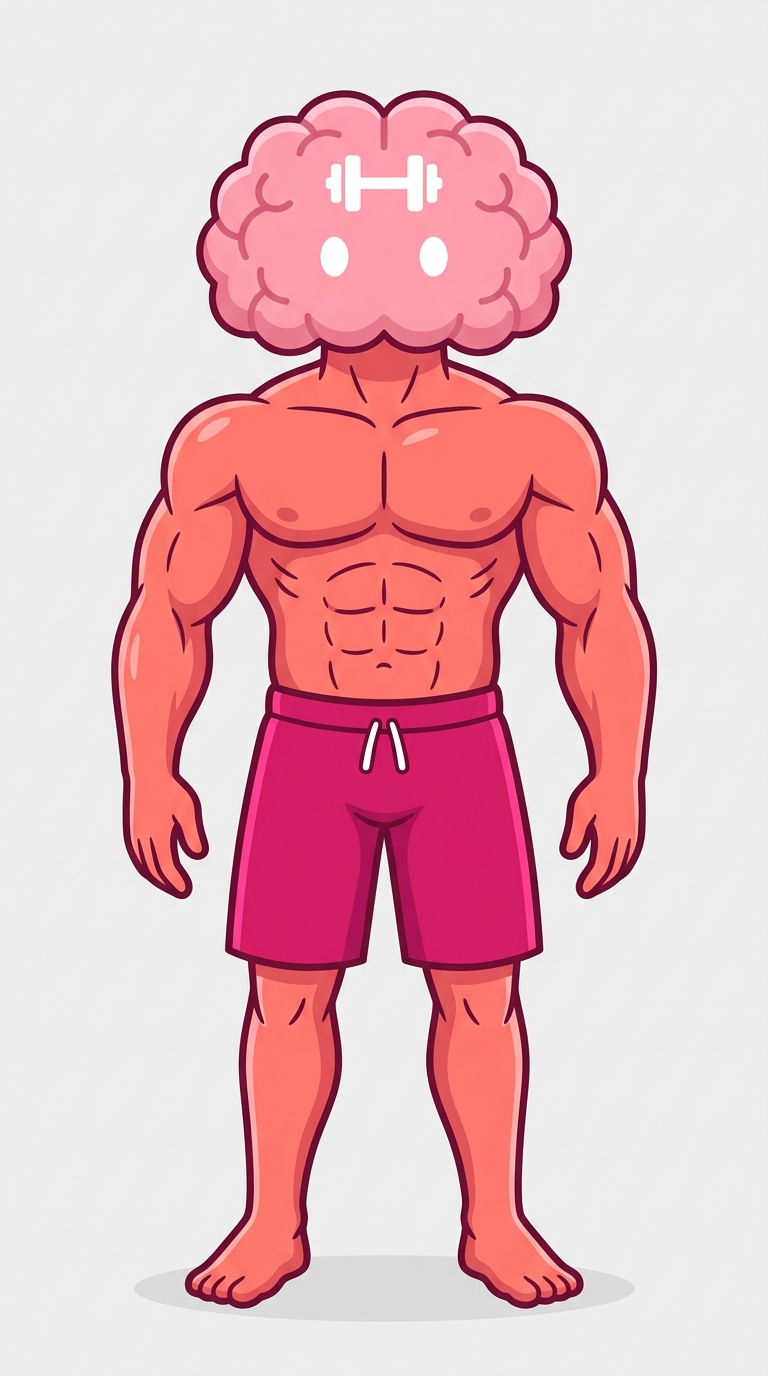
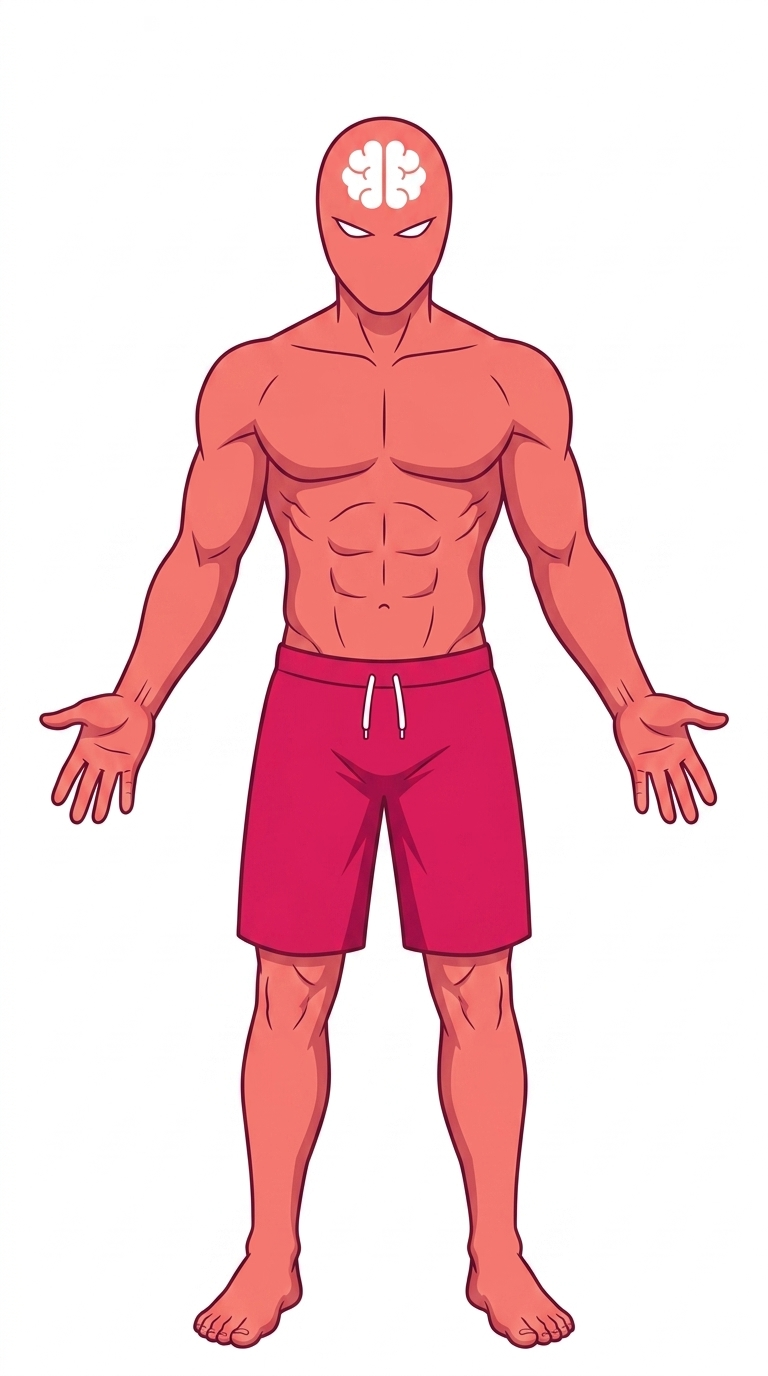
feat(manabilab-canva): refresh Manabikun to faceless captain-workout style with brain forehead mark
The previous Manabikun (pink-brain head with a tiny dumbbell stamp,
inherited from manabilab v1) read as too cute / casual once dropped
into the canva flow. Switch to a Captain-Workout-inspired silhouette:
faceless coral-pink helmet head, thin diagonal slit eyes, a solid
white front-view brain icon stamped on the forehead, six-pack body,
deep magenta knee-length workout shorts, bare feet, pure white
background. Pink stays the brand color.

Mechanics:
- assets/character/reference.png — user's structural reference
  (Captain-Workout style screenshot)
- prompts/character-base.md — new visual contract for the base shot,
  with the reference image used as a structural guide and explicit
  CAPS rules to prevent the model from dropping the shorts or cropping
  the body
- pipeline/manabilab-canva-character-base-generator.ts — Nano Banana
  call that overwrites assets/character/manabikun-base.png whenever
  the spec changes
- POST /api/manabilab-canva/character/regenerate-base — fires the
  generator from the UI
- ImagesStep gains a "⟲ ベース画像を再生成" action on the character
  reference card with confirm + cache-bust on the thumbnail

Also rewrites the character clause in prompts/image-prompt.md so
per-scene image prompts inherit the new spec verbatim — otherwise
scene images would still be asking for "pink brain head + oval
eyes + dumbbell icon" and drift away from the new base.

Changed region(s): [[0.0312, 0.0625, 0.9688, 1.0]]

diff --git a/packages/web/src/app/manabilab-canva/[jobId]/steps/ImagesStep.tsx b/packages/web/src/app/manabilab-canva/[jobId]/steps/ImagesStep.tsx
@@ -32,6 +32,14 @@ interface GenImageResult {
   error?: string;
 }
 
+interface RegenBaseResult {
+  ok: boolean;
+  outputPath?: string;
+  referenceUsed?: boolean;
+  regeneratedAt?: string;
+  error?: string;
+}
+
 interface GenerateAllResult {
   ok: boolean;
   job?: ManabilabCanvaJob;
@@ -88,6 +96,9 @@ export function ImagesStep({
   const [genImageIdx, setGenImageIdx] = useState<number | null>(null);
   const [generatingAll, setGeneratingAll] = useState(false);
   const [batchSummary, setBatchSummary] = useState<string | null>(null);
+  const [regeneratingBase, setRegeneratingBase] = useState(false);
+  const [baseVersion, setBaseVersion] = useState<number>(0);
+  const [baseError, setBaseError] = useState<string | null>(null);
   const [error, setError] = useState<{ index: number; message: string } | null>(null);
   const [globalError, setGlobalError] = useState<string | null>(null);
 
@@ -189,6 +200,34 @@ export function ImagesStep({
     }
   };
 
+  const handleRegenerateBase = async () => {
+    if (
+      !confirm(
+        "キャラ基準画像を再生成します。以降の全シーン画像はこの新しいベースから生成されます。続行しますか？",
+      )
+    ) {
+      return;
+    }
+    setRegeneratingBase(true);
+    setBaseError(null);
+    try {
+      const res = await fetch(
+        `/api/manabilab-canva/character/regenerate-base`,
+        { method: "POST" },
+      );
+      const data = (await res.json()) as RegenBaseResult;
+      if (!data.ok) {
+        setBaseError(data.error ?? "ベース画像の再生成に失敗しました");
+        return;
+      }
+      setBaseVersion(Date.now());
+    } catch (err) {
+      setBaseError(err instanceof Error ? err.message : String(err));
+    } finally {
+      setRegeneratingBase(false);
+    }
+  };
+
   const handleGenerateAll = async (force: boolean) => {
     if (!scenes || scenes.length === 0) return;
     if (
@@ -279,21 +318,56 @@ export function ImagesStep({
         style={{
           display: "flex",
           gap: 12,
-          alignItems: "center",
+          alignItems: "flex-start",
           border: "1px dashed var(--border)",
           borderRadius: 8,
           padding: 10,
         }}
       >
         <img
-          src={CHARACTER_REF_URL}
+          src={`${CHARACTER_REF_URL}${baseVersion ? `?t=${baseVersion}` : ""}`}
           alt="マナビくん基準画像"
-          style={{ width: 64, height: 64, objectFit: "contain", background: "white", borderRadius: 4 }}
+          style={{
+            width: 96,
+            height: 96,
+            objectFit: "contain",
+            background: "white",
+            borderRadius: 4,
+            border: "1px solid var(--border)",
+          }}
         />
-        <div style={{ fontSize: 12, color: "var(--muted)", flex: 1 }}>
-          <strong>参照キャラ画像</strong>: <code>assets/character/manabikun-base.png</code>
-          <br />
-          全シーンの画像生成でこの 1 枚をリファレンスとして使います。差し替えはファイルを上書きしてください。
+        <div style={{ fontSize: 12, color: "var(--muted)", flex: 1, display: "grid", gap: 6 }}>
+          <div>
+            <strong style={{ color: "inherit" }}>参照キャラ画像</strong>:{" "}
+            <code>assets/character/manabikun-base.png</code>
+            <br />
+            全シーンの画像生成でこの 1 枚を referenceImages として使います。
+            <code>reference.png</code> を構造リファレンスに、
+            <code>prompts/character-base.md</code> の規範でベースを生成し直せます。
+          </div>
+          <div style={{ display: "flex", gap: 8, alignItems: "center", flexWrap: "wrap" }}>
+            <button
+              type="button"
+              onClick={handleRegenerateBase}
+              disabled={regeneratingBase}
+              style={{
+                padding: "6px 12px",
+                background: "transparent",
+                color: "var(--accent)",
+                border: "1px solid var(--accent)",
+                borderRadius: 4,
+                fontSize: 12,
+                fontWeight: 600,
+                cursor: regeneratingBase ? "not-allowed" : "pointer",
+                opacity: regeneratingBase ? 0.6 : 1,
+              }}
+            >
+              {regeneratingBase ? "再生成中..." : "⟲ ベース画像を再生成"}
+            </button>
+            {baseError ? (
+              <span style={{ color: "#d32f2f", fontSize: 11 }}>{baseError}</span>
+            ) : null}
+          </div>
         </div>
       </section>
 

diff --git a/packages/pipeline/src/manabilab-canva-character-base-generator.ts b/packages/pipeline/src/manabilab-canva-character-base-generator.ts
@@ -1,0 +1,44 @@
+import path from "node:path";
+import fs from "node:fs/promises";
+import { promptPath, channelAssetsDir } from "@rekishi/shared/channel";
+import { generateImage } from "./image-generator.js";
+
+export interface RegenerateCharacterBaseResult {
+  outputPath: string;
+  referenceUsed: boolean;
+}
+
+/**
+ * manabilab-canva のキャラ "原典" ヒーローショットを Nano Banana で再生成する。
+ *
+ * - 入力プロンプト: prompts/character-base.md
+ * - 参照画像: assets/character/reference.png（あれば）
+ * - 出力: assets/character/manabikun-base.png（既存ファイルは上書き）
+ *
+ * 各ジョブのシーン画像生成はこの 1 枚を referenceImages として引き続けるため、
+ * このベースが変わると全ジョブの絵柄が変わる点に注意。
+ */
+export async function regenerateCharacterBase(): Promise<RegenerateCharacterBaseResult> {
+  const charDir = path.join(channelAssetsDir("character", "manabilab-canva"));
+  const promptText = await fs.readFile(promptPath("character-base", "manabilab-canva"), "utf-8");
+  const refPath = path.join(charDir, "reference.png");
+  const destPath = path.join(charDir, "manabikun-base.png");
+
+  let referenceUsed = false;
+  let referenceImages: string[] | undefined;
+  try {
+    await fs.stat(refPath);
+    referenceImages = [refPath];
+    referenceUsed = true;
+  } catch {
+    referenceImages = undefined;
+  }
+
+  await generateImage(promptText, destPath, {
+    referenceImages,
+    // プロンプト内で 9:16 を明示しているので追加指定はしない
+    appendAspectSuffix: false,
+  });
+
+  return { outputPath: destPath, referenceUsed };
+}

diff --git a/packages/web/src/app/api/manabilab-canva/character/regenerate-base/route.ts b/packages/web/src/app/api/manabilab-canva/character/regenerate-base/route.ts
@@ -1,0 +1,25 @@
+import { NextRequest, NextResponse } from "next/server";
+import { regenerateCharacterBase } from "@rekishi/pipeline";
+import { setChannel } from "@rekishi/shared/channel";
+import { CANVA_CHANNEL_SLUG } from "@/lib/canva-job";
+
+export const runtime = "nodejs";
+// Nano Banana は数十秒かかる場合あり
+export const maxDuration = 180;
+
+export async function POST(_request: NextRequest): Promise<Response> {
+  try {
+    setChannel(CANVA_CHANNEL_SLUG);
+    const result = await regenerateCharacterBase();
+    return NextResponse.json({
+      ok: true,
+      outputPath: result.outputPath,
+      referenceUsed: result.referenceUsed,
+      // キャッシュバスタ
+      regeneratedAt: new Date().toISOString(),
+    });
+  } catch (err) {
+    const msg = err instanceof Error ? err.message : String(err);
+    return NextResponse.json({ ok: false, error: msg }, { status: 500 });
+  }
+}

diff --git a/packages/pipeline/src/index.ts b/packages/pipeline/src/index.ts
@@ -7,6 +7,8 @@ export type { ManabilabCanvaScriptResult } from "./manabilab-canva-script-genera
 export { expandScriptToScenes } from "./manabilab-canva-scene-expander.js";
 export { generateImagePromptForScene } from "./manabilab-canva-image-prompt-generator.js";
 export type { ImagePromptResult } from "./manabilab-canva-image-prompt-generator.js";
+export { regenerateCharacterBase } from "./manabilab-canva-character-base-generator.js";
+export type { RegenerateCharacterBaseResult } from "./manabilab-canva-character-base-generator.js";
 export { planScenes } from "./scene-planner.js";
 export { resolveSceneAssets } from "./asset-resolver.js";
 export { synthesizeNarration } from "./tts-generator.js";

diff --git a/packages/channels/manabilab-canva/prompts/character-base.md b/packages/channels/manabilab-canva/prompts/character-base.md
@@ -1,0 +1,103 @@
+# manabilab-canva キャラ基準ショット生成プロンプト
+
+参照画像（`reference.png`）の **キャラ構造とポーズ感** を踏襲しつつ、
+ピンクの色味を全面に乗せた **新マナビくん** の **基準ヒーローショット (front facing, neutral standing)** を生成してください。
+
+このプロンプトの出力先は `manabikun-base.png` で、以降のすべてのシーン画像生成で参照画像として使われる、**ブランド規範の "原典"** になります。
+構造・色・スタイルが一発で固まるよう、下記の仕様を **完全に満たした 1 枚** を作ってください。
+
+---
+
+## キャラ仕様（必ず守る）
+
+### 頭部 — 最重要
+- **EGG-SHAPED FACELESS HELMET HEAD**: 卵型のなめらかな頭。スカルなし、髪なし、耳なし、首から滑らかにつながる
+- **頭の色**: 体と同じ **コーラル / サーモンピンク (#F08080 〜 #FF7B9C 系)**。決してグレーや白にしない
+- **額の中央に "脳マーク" (BRAIN icon)**: 白い**シルエット型の脳アイコン** をスタンプロゴのように。下記仕様を厳守する
+  - **正面ビュー、左右対称**（左右半球がはっきり分かれている）
+  - 上部は **3〜4 個の丸みを帯びた波打ち（雲のような形）** で大脳を表現
+  - 中央に **縦方向の細い溝（左右半球の境界）** が入る
+  - 全体は **白の塗りつぶしシルエット**（中身を透かさない、線画ではなく塗り）
+  - サイズは目とのバランスで額の上半分に収まる程度（額の幅の 30〜40%）
+  - 形は **シンプルでアイコン的**（解剖学的なディテールやリアルな gyri は不要）
+  - 文字（W、B、ロゴ文字、数字など）は **絶対に入れない**
+- **目**: 2 本の **細い斜めの白いスリット**。鋭くクール。下向き 5°〜10° 程度の角度で「決め顔」感を出す
+- **口・鼻・眉・耳・歯・舌・髪・脳の凹凸 — 一切なし**
+
+### 体
+- **マッチョ・ヒーロー体型**: 引き締まった胸筋・腹筋（シックスパック）・広い肩・はっきりした上腕
+- **誇張しすぎない**: ボディビル的なグロテスクさやチビキャラ的な可愛さは避ける
+- **肌の色**: 顔と同じ **コーラル / サーモンピンク (#F08080 〜 #FF7B9C 系)**、頭部と完全同色
+- **シェーディング**: 1 トーン濃いめのピンクで、筋肉のラインや陰影をフラットに表現（リアル過ぎない、グロテスクでない）
+- **上半身は裸**（タンクトップなどは着ない）
+
+### 服装（必須・省略禁止）
+- **MUST WEAR knee-length workout shorts** in DEEP MAGENTA / HOT PINK (#D63384 〜 #E91E63 系)
+  — ショーツは絶対に省略しない。下半身は裸ではなくこのショーツを必ず履かせる
+- ウエストに小さな白いドローストリング（紐）
+- **裸足**（靴・靴下・ベルトなどは履かない）
+
+### 線画スタイル
+- **2D ベクターイラスト**、フラットカラー + 1 トーン濃いピンクのセルシェード
+- 線は **太く均一（約 3px 相当）**、線色は **ダークウォームピンク / バーガンディ系**（純黒は禁止）
+- 漫画 / アニメっぽいパーキッとしたシルエット
+
+### 背景・構図
+- **PURE WHITE solid background (#FFFFFF)**。影なし、床線なし、小物なし、テキストなし、他のキャラなし
+- **FULL BODY composition** — 頭のてっぺんから **裸足のつま先まで全身を必ず収める**。下半身を切ったり太ももで止めたりしない
+- **9:16 縦構図**、被写体は画面中央、頭頂から足先までが綺麗に画面内に収まる引き
+- キャラの上下に少し余白を残す（後で Canva で文字を被せる前提）
+
+### ポーズ — このベース画像専用
+- **正面向き、ニュートラルスタンディング**（後続の全シーンの "原典" になる）
+- 両腕は体の横にやや開き気味で下げる（添付参照画像のように手のひらを軽く前に開いて見せても良い）
+- 胸を張って堂々と立つ。猫背禁止
+- 目線はカメラ目線（スリット目はカメラ向き）
+- このショットがブランドの「キャラ規範ショット」になる
+
+### 雰囲気
+- クールで自信に満ち、わずかにヒロイック（Captain Workout 系統）
+- 「脳と体を鍛えるアスリート」感
+
+---
+
+## 絶対避ける
+
+- **ショーツを省略する（裸 / 下着のみ / 全裸）** — マゼンタの膝丈ショーツは必須
+- 頭から足先までの **全身ショットを切る**（半身、腰から上、太ももカットなど禁止）
+- リアルな解剖（実際の頭蓋骨、血、血管、グロ、不気味）
+- 顔のパーツ（口、鼻、眉、ほうれい線、しわ）
+- 髪・脳の凹凸
+- 額に **アルファベット文字や数字（"W", "B" など）** — 必ず脳シルエットアイコンのみ
+- テキスト、字幕、説明文、ロゴ文字
+- 背景の小物、床線、影、他キャラ
+- 写真風、3D レンダリング、CGI
+- アニメの大きな瞳・キラキラ
+- チビキャラ、SD 化
+- 性的・煽情的なフレーミング
+
+---
+
+## 入力（必ず実行する）
+
+参照画像 `reference.png` から：
+- 頭部の **faceless 卵型構造**
+- 額にロゴマークが入る **位置と大きさ**
+- **細い斜めスリット目** の角度
+- **マッチョ体型のシルエット**
+- **構図（正面、両手をやや開く neutral pose）**
+
+を踏襲し、以下のように **改変** する：
+- 肌・頭の色 → グレー → **コーラル / サーモンピンク**
+- 線色 → 黒 → **ダークウォームピンク / バーガンディ**
+- **額のマーク**: 「W」文字 → **白い脳シルエットアイコン**（上部 3〜4 個の波打ち + 中央縦溝、左右対称、塗りつぶし、文字なし）
+- 上半身 → そのまま shirtless
+- 下半身を追加 → **マゼンタの膝丈ショーツ + 裸足**
+- 背景 → 薄グレー → **純白 #FFFFFF**
+
+---
+
+## 最終出力
+
+画像を 1 枚生成。**JSON や説明テキストは出力せず、画像のみ**。
+9:16 縦長 PNG。

diff --git a/packages/channels/manabilab-canva/assets/character/README.md b/packages/channels/manabilab-canva/assets/character/README.md
@@ -2,16 +2,34 @@
 
 画像生成時に「同一キャラ」のポーズ違いを安定生成するための参照画像置き場。
 
-## 現在の参照画像
+## ファイル
 
-- `manabikun-base.png` — マナビくん基準ヒーローショット
-  - 暫定で manabilab v1（`packages/channels/manabilab/assets/character/v1/01-hero-front-standing.png`）からコピー
+- **`reference.png`** — 新キャラの **構造リファレンス**（faceless / マスク型ヘッド / 細スリット目 / マッチョ体型）。色や服装は無視し、構造だけ参照する用途
+- **`manabikun-base.png`** — 各シーン画像生成で `referenceImages` として渡される **ブランド規範ショット**。全身・正面・neutral standing・純白背景・新マナビくん仕様
 
-## 差し替え手順
+## 新マナビくん仕様（要点）
 
-新しいマナビくんキャラに更新する場合：
+- Faceless 卵型ヘルメットヘッド、コーラルピンク
+- 額に **白い脳シルエットマーク**（左右半球の正面ビュー、文字なし）
+- 細い斜めスリット目 2 本
+- マッチョ体型、上半身裸、ディープマゼンタ膝丈ショーツ、裸足
+- 純白背景、フラット 2D + バーガンディ太線
 
-1. 新キャラの基準画像（front facing, neutral pose, 純白背景推奨）を `manabikun-base.png` として上書き
-2. ImagesStep でジョブごとに「画像を生成」を再実行（既存生成画像は手動で削除 or 上書き）
+詳細は `packages/channels/manabilab-canva/prompts/character-base.md` を参照。
 
-複数の参照ポーズを使いたくなった場合は、`pose-1.png`, `pose-2.png` ... と追加し、`packages/pipeline/src/manabilab-canva-image-prompt-generator.ts` 側で参照画像配列に含めるよう拡張する。
+## 再生成方法
+
+### Web UI から
+ImagesStep の **「⟲ ベース画像を再生成」** ボタン → 確認ダイアログ → API が `regenerateCharacterBase()` を実行 → `manabikun-base.png` 上書き
+
+### API 直接
+```bash
+curl -X POST http://localhost:3030/api/manabilab-canva/character/regenerate-base
+```
+
+### キャラを刷新したい時
+1. 新しい構造リファレンスを `reference.png` に上書き保存
+2. `prompts/character-base.md` の仕様を新キャラに書き直す
+3. 「ベース画像を再生成」ボタン押下
+4. 結果を確認し、必要なら `character-base.md` を微調整して再再生成
+5. シーン画像生成プロンプト（`prompts/image-prompt.md`）の **キャラ規範ヘッダ** も同じ仕様に書き換え（重要）

diff --git a/packages/channels/manabilab-canva/prompts/image-prompt.md b/packages/channels/manabilab-canva/prompts/image-prompt.md
@@ -13,13 +13,20 @@
 ## マナビくんキャラ規範（Reference 文に必ず含める）
 
 ```
-Same character as the reference image — IDENTICAL stylized PINK BRAIN as head (no skull,
-no hair, with soft cute gyri folds and a small white dumbbell icon on the front),
-IDENTICAL TWO WHITE OVAL EYE-DOTS only (no mouth, no nose, no eyebrows),
-IDENTICAL coral / salmon pink muscular body with defined pecs and abs,
-IDENTICAL deep magenta knee-length workout shorts, IDENTICAL bare feet.
-2D vector illustration, flat colors with subtle cel-shading, bold smooth dark-pink line art.
+Same character as the reference image — IDENTICAL faceless egg-shaped helmet head
+in coral / salmon pink (NO skull, NO hair, NO ears, NO mouth, NO nose, NO eyebrows),
+IDENTICAL solid WHITE BRAIN-SILHOUETTE icon on the forehead (front-view symmetric brain
+shape with rounded lobes on top and a vertical center groove, NOT a letter, NOT text),
+IDENTICAL TWO THIN DIAGONAL WHITE SLITS for eyes (sharp, cool, slightly downward angle),
+IDENTICAL coral / salmon pink muscular body with defined pecs, six-pack abs, broad shoulders,
+SHIRTLESS upper body,
+IDENTICAL deep magenta knee-length workout shorts with a small white drawstring,
+IDENTICAL bare feet.
+2D vector illustration, flat colors with subtle 1-tone darker pink cel-shading,
+bold uniform dark-warm-pink / burgundy line art (NEVER pure black).
 ```
+
+**絶対に描かないもの**: 額に文字（W, B, ロゴ文字など）、口、鼻、眉、耳、髪、脳の凹凸、白いオーバル目（楕円目）、ピンクの脳形の頭、ダンベル型のアイコン、シャツ・タンクトップ、靴・靴下。
 
 ## 1 シーンに対するプロンプト構造（この順序で書く）
 